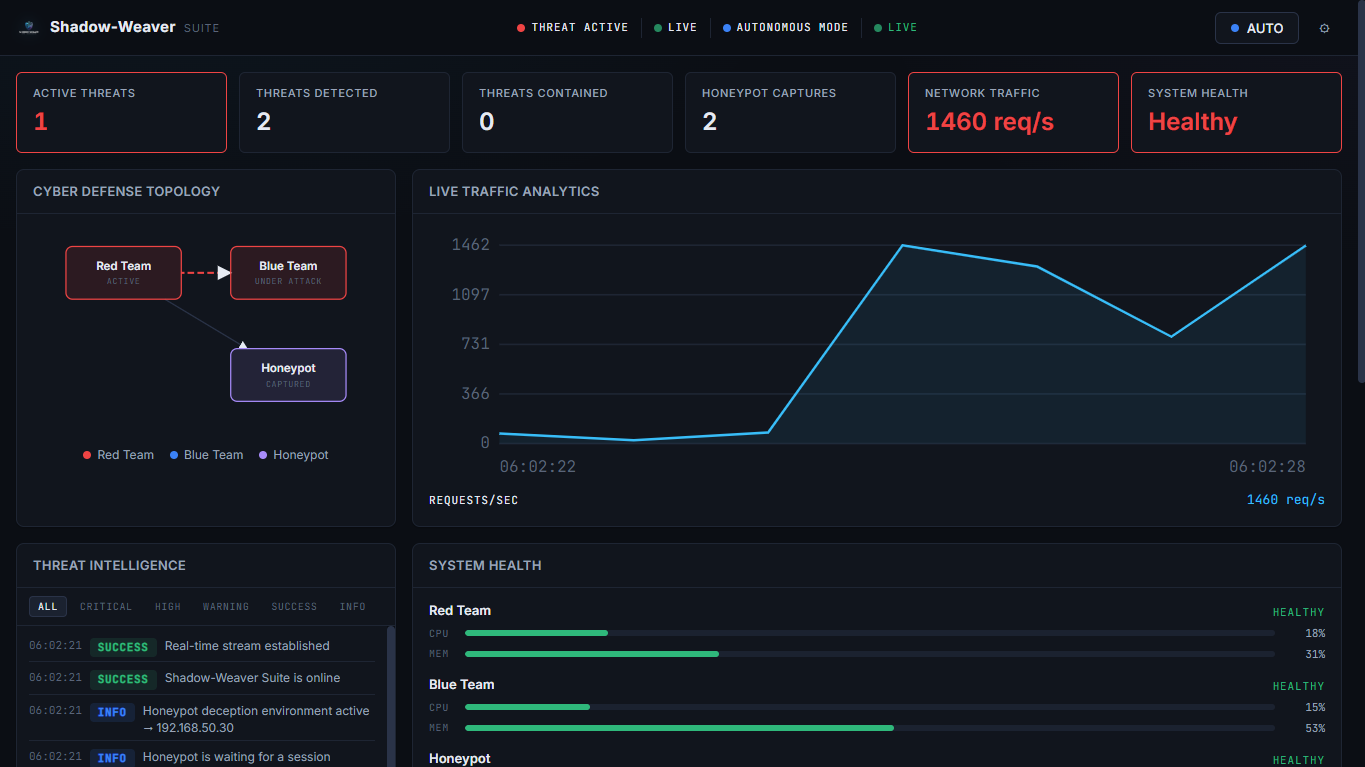
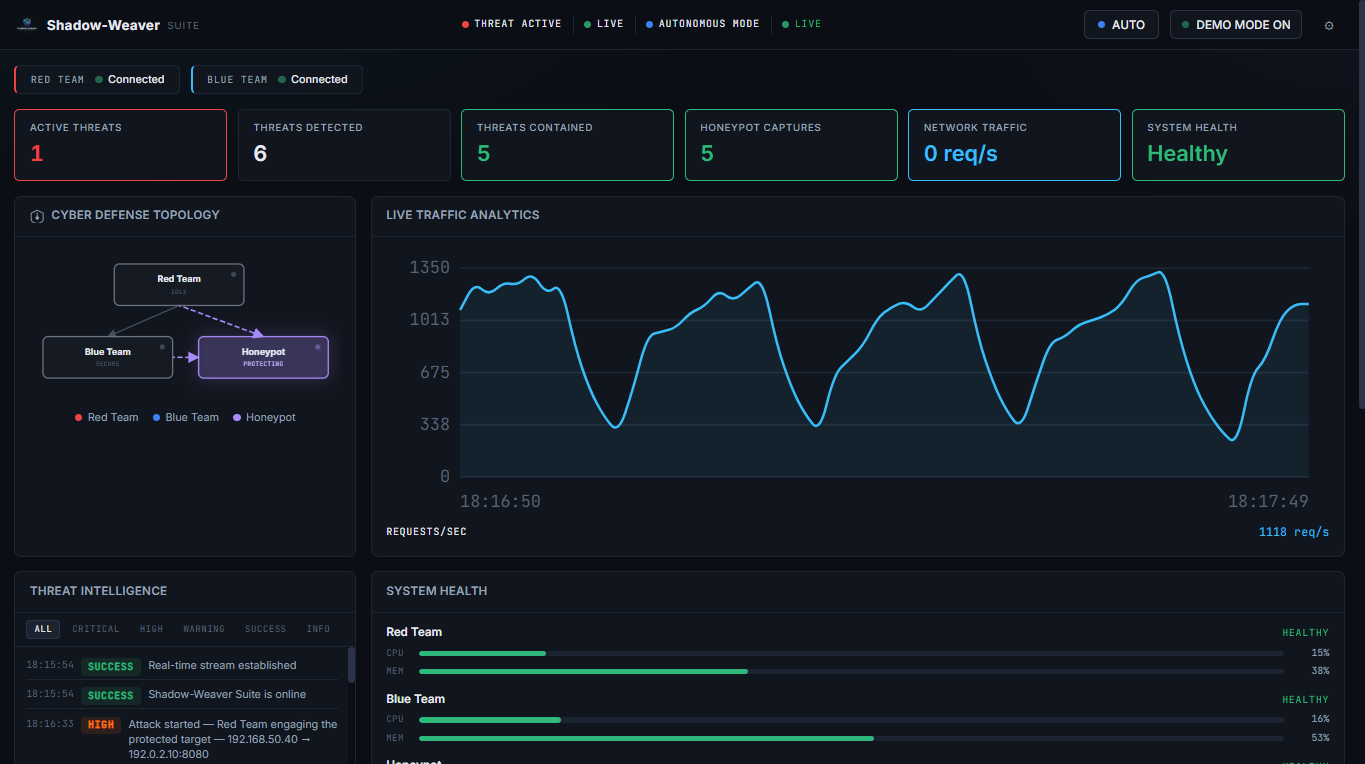
Fix that readme file image problame

diff --git a/README.md b/README.md
@@ -6,7 +6,7 @@
 
 A cyberpunk SOC simulation with a live red-vs-blue battle on your laptop. A red-team swarm attacks a simulated enterprise; a blue-team shield detects and contains the threat (autonomously or with human approval); an AI honeypot traps the attacker and captures every keystroke; an orchestrator wires it all into a live WebSocket feed that a dashboard renders in real time.
 
-![Architecture](docs/architecture.png)
+![Architecture](assets/Real-Time Cyber Defense.png)
 
 ## Features
 
